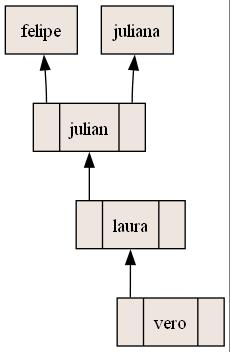
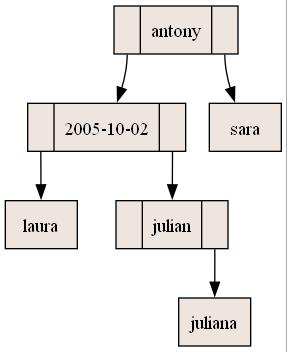
final

diff --git a/11-JUL/proyectos/abb-rodriguez/src/Arbol.java b/11-JUL/proyectos/abb-rodriguez/src/Arbol.java
@@ -29,19 +29,19 @@ public class Arbol {
         } else {
             p = raiz;
             q = p;
-            while (q != null && !p.getPersona().getNombre().equals(persona.getNombre())) {
+            while (q != null && !p.getPersona().getFechaNacimiento().equals(persona.getFechaNacimiento())) {
                 p = q;
-                if (persona.getNombre().compareTo(p.getPersona().getNombre()) < 0) {
+                if (persona.getFechaNacimiento().compareTo(p.getPersona().getFechaNacimiento()) > 0) {
                     q = q.getIzqNodo();
                 } else {
                     q = q.getDerNodo();
                 }
-                if (p.getPersona().getNombre().equals(persona.getNombre())) {
+                if (p.getPersona().getFechaNacimiento().equals(persona.getFechaNacimiento())) {
                     System.out.println("Dato repetido");
                     return;
                 }
             }
-            if (persona.getNombre().compareTo(p.getPersona().getNombre()) < 0) {
+            if (persona.getFechaNacimiento().compareTo(p.getPersona().getFechaNacimiento()) > 0) {
                 insertarIzquierda(p, persona);
             } else {
                 insertarDerecha(p, persona);

diff --git a/11-JUL/proyectos/abb-rodriguez/src/Nodo.java b/11-JUL/proyectos/abb-rodriguez/src/Nodo.java
@@ -77,7 +77,7 @@ public class Nodo {
 
     private String getCodigoGraphviz() {
         return "digraph grafica{\n" +
-                "rankdir=BT;\n" + // Cambié la dirección a "BT" para que la raíz esté arriba
+                "rankdir=TB;\n" + // Cambié la dirección a "BT" para que la raíz esté arriba
                 "node [shape = record, style=filled, fillcolor=seashell2];\n" +
                 getCodigoInterno() +
                 "}\n";
